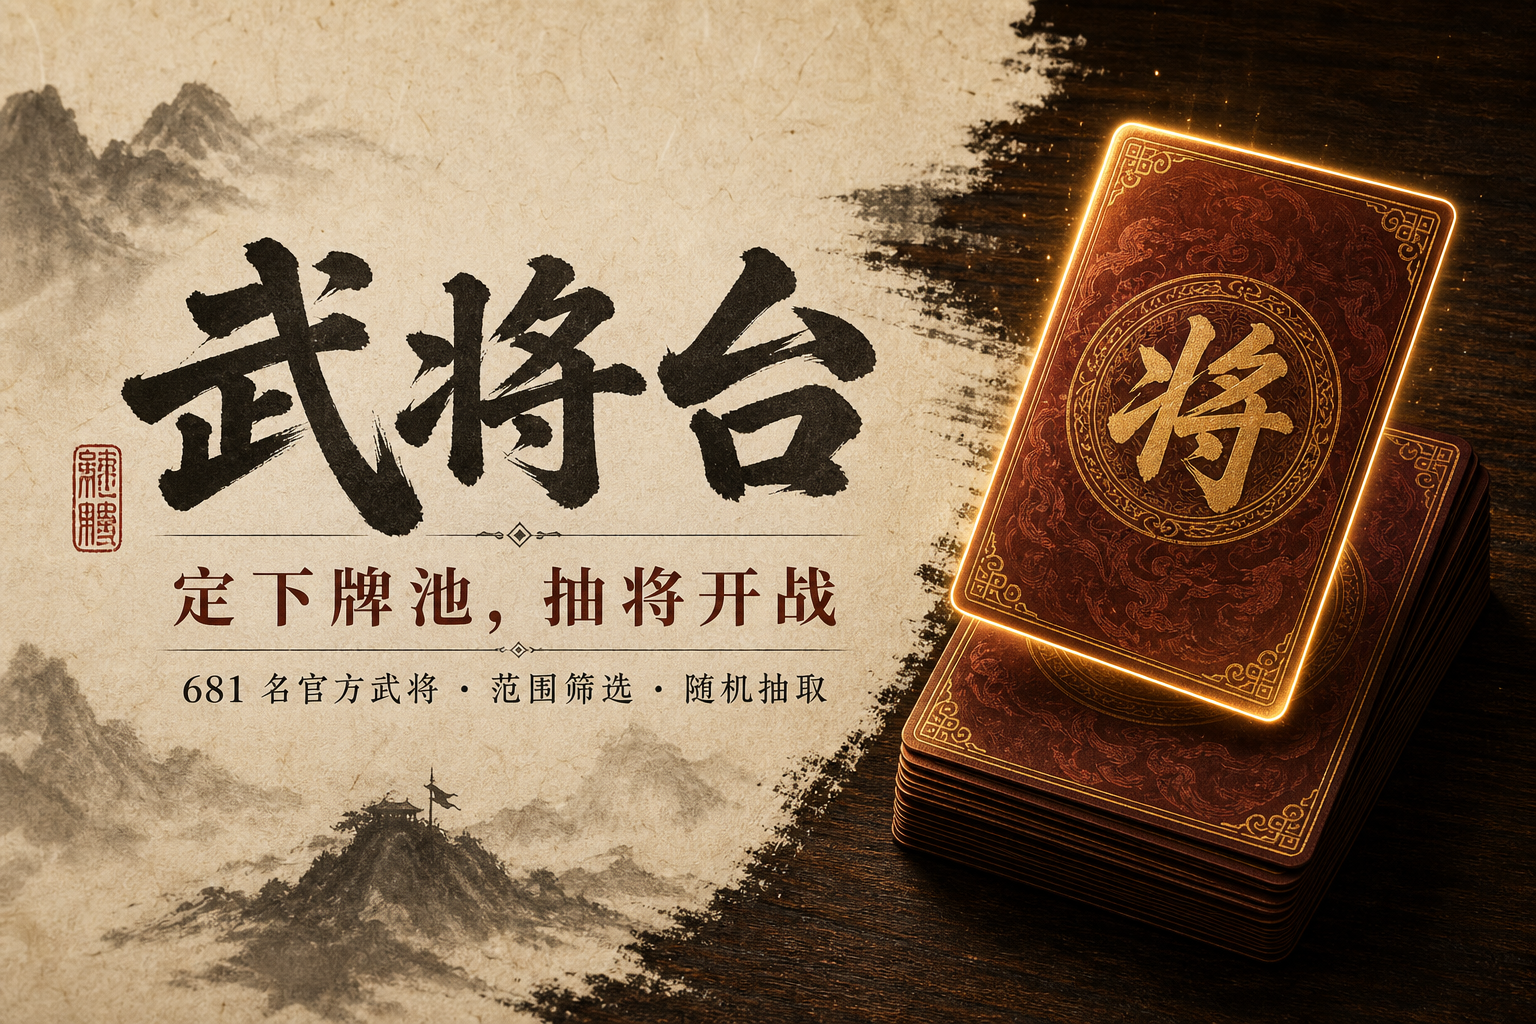
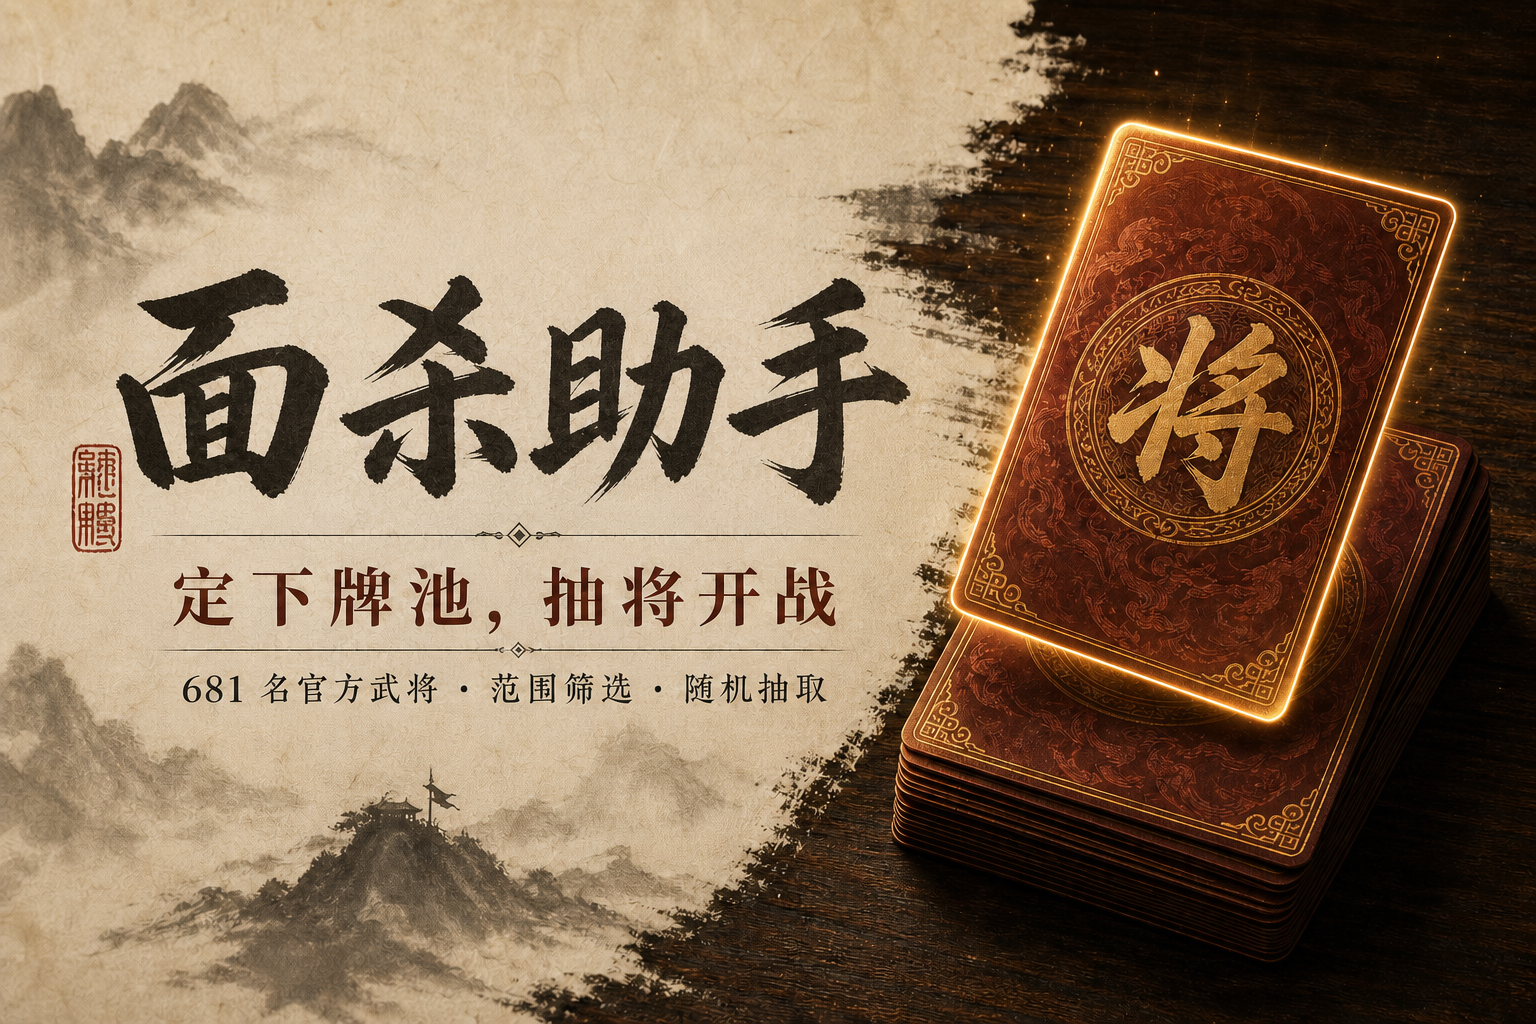
Rename app to 面杀助手

diff --git a/netlify/index.html b/netlify/index.html
@@ -7,7 +7,7 @@
       name="description"
       content="三国杀身份局武将筛选、搜索与随机抽取工具，内置按发行时代整理的推荐将池。"
     />
-    <meta property="og:title" content="武将台｜三国杀面杀选将器" />
+    <meta property="og:title" content="面杀助手｜三国杀面杀选将器" />
     <meta
       property="og:description"
       content="圈定身份局将池，搜索武将并随机抽取，查看势力、体力与完整技能。"
@@ -15,16 +15,16 @@
     <meta property="og:type" content="website" />
     <meta
       property="og:url"
-      content="https://sanguosha-hero-draw.netlify.app"
+      content="https://miansha-assistant.netlify.app"
     />
     <meta
       property="og:image"
-      content="https://sanguosha-hero-draw.netlify.app/og.png"
+      content="https://miansha-assistant.netlify.app/og.png"
     />
     <meta name="twitter:card" content="summary_large_image" />
-    <link rel="canonical" href="https://sanguosha-hero-draw.netlify.app" />
+    <link rel="canonical" href="https://miansha-assistant.netlify.app" />
     <link rel="icon" href="data:," />
-    <title>武将台｜三国杀面杀选将器</title>
+    <title>面杀助手｜三国杀面杀选将器</title>
   </head>
   <body>
     <div id="root"></div>

diff --git a/app/page.tsx b/app/page.tsx
@@ -331,10 +331,10 @@ export default function Home() {
   return (
     <main>
       <header className="site-header">
-        <a className="brand" href="#top" aria-label="武将台首页">
+        <a className="brand" href="#top" aria-label="面杀助手首页">
           <span className="brand-seal">将</span>
           <span>
-            <b>武将台</b>
+            <b>面杀助手</b>
             <small>线下面杀选将器</small>
           </span>
         </a>
@@ -481,7 +481,7 @@ export default function Home() {
                 <div className="empty-stage">
                   <div className="deck-stack" aria-hidden="true">
                     <i /><i />
-                    <div><span>将</span><b>武将台</b></div>
+                    <div><span>将</span><b>面杀助手</b></div>
                   </div>
                   <div>
                     <p>已从官方武将录中筛出</p>
@@ -576,7 +576,7 @@ export default function Home() {
         </section>
 
         <footer>
-          <div className="footer-mark"><span>将</span> 武将台</div>
+          <div className="footer-mark"><span>将</span> 面杀助手</div>
           <p>数据整理自三国杀 OL 官网公开武将资料，立绘与角色版权归原权利方所有。</p>
           <a href="https://www.sanguosha.com/hero" rel="noreferrer" target="_blank">
             查看官方武将录 ↗

diff --git a/app/layout.tsx b/app/layout.tsx
@@ -2,7 +2,7 @@ import type { Metadata } from "next";
 import { headers } from "next/headers";
 import "./globals.css";
 
-const title = "武将台｜三国杀面杀选将器";
+const title = "面杀助手｜三国杀面杀选将器";
 const description =
   "按势力、系列与稀有度筛选 681 名官方武将，随机抽取、名字搜索，并查看势力、体力与技能。";
 
@@ -28,7 +28,7 @@ export async function generateMetadata(): Promise<Metadata> {
           url: `${origin}/og.png`,
           width: 1536,
           height: 1024,
-          alt: "武将台——定下牌池，抽将开战",
+          alt: "面杀助手——定下牌池，抽将开战",
         },
       ],
     },

diff --git a/README.md b/README.md
@@ -1,12 +1,12 @@
-# 武将台｜三国杀面杀选将器
+# 面杀助手｜三国杀面杀选将器
 
 一个面向线下身份局的三国杀武将筛选与随机抽取工具。支持按势力、系列和稀有度筛选，按名字搜索，随机抽取武将，并查看势力、体力和完整技能。
 
-![武将台预览](public/og.png)
+![面杀助手预览](public/og.png)
 
 ## 在线使用
 
-[打开武将台](https://sanguosha-hero-draw.netlify.app)
+[打开面杀助手](https://miansha-assistant.netlify.app)
 
 ## 功能
 